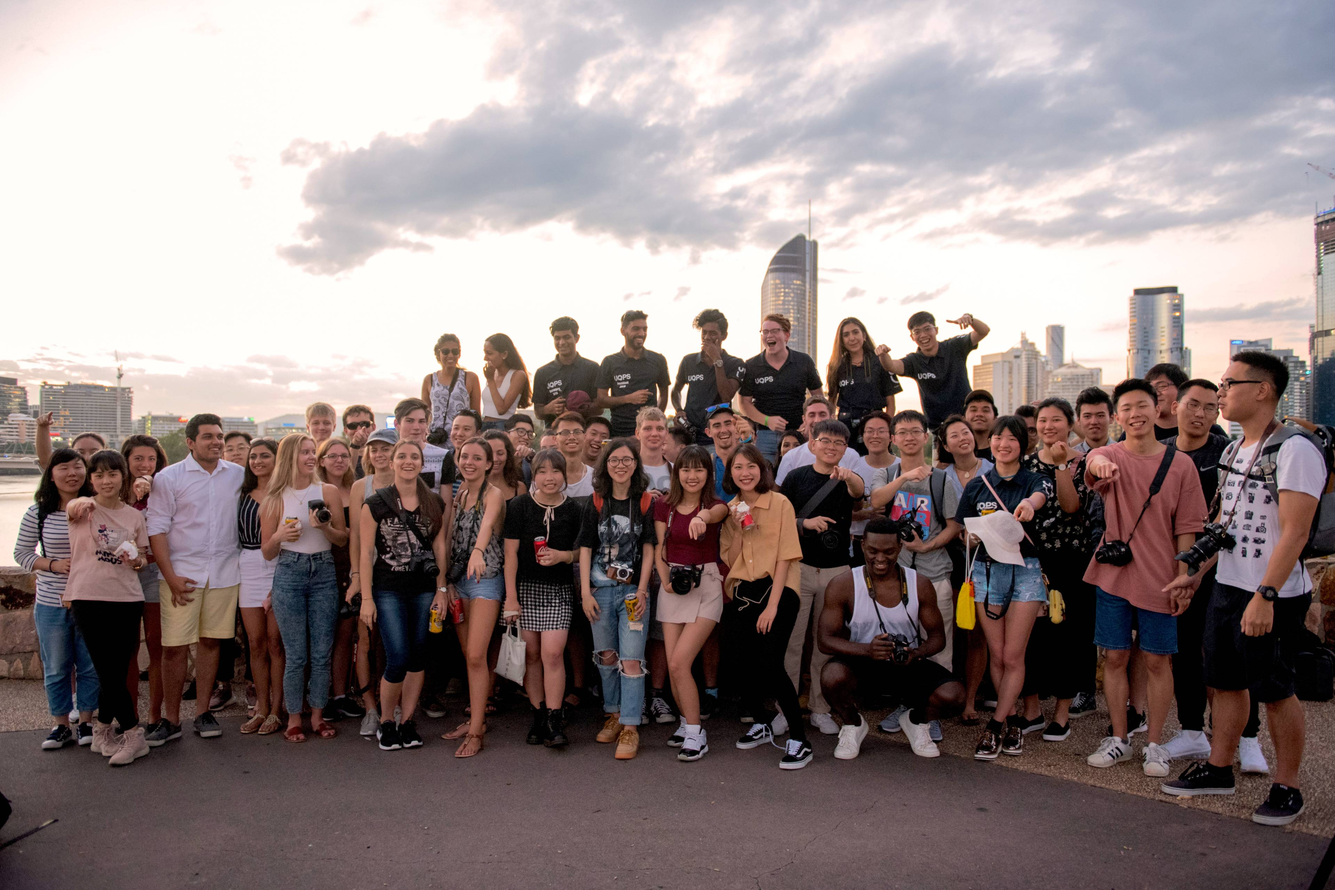
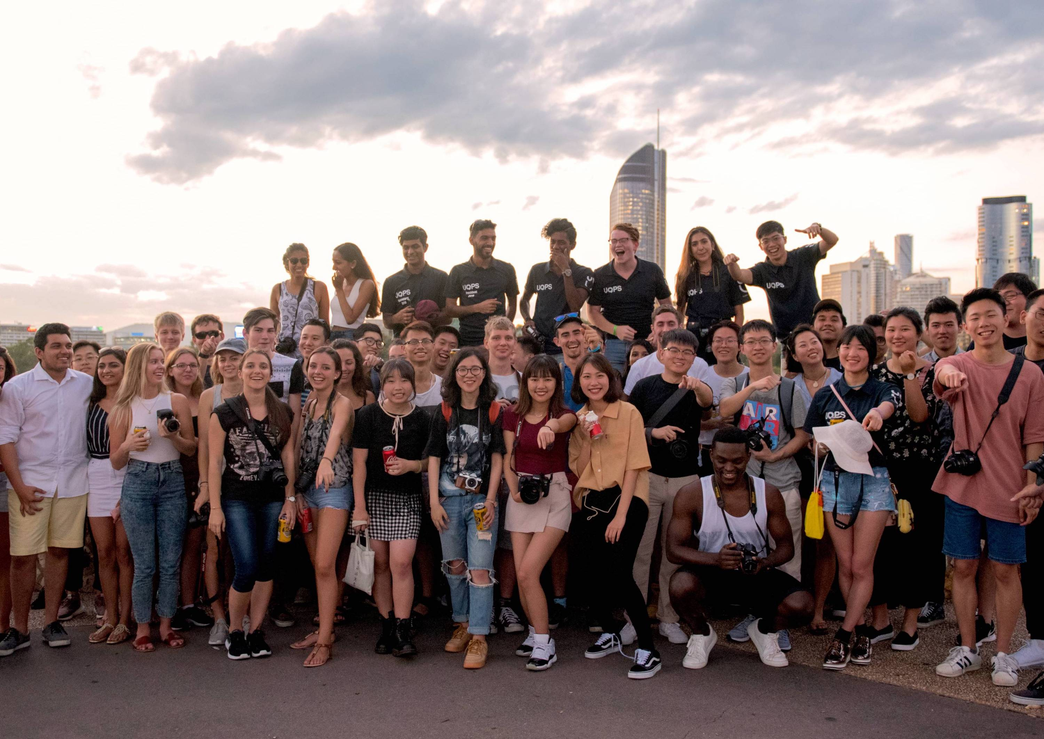
Restyle

diff --git a/static/index.html b/static/index.html
@@ -25,7 +25,7 @@
                 header.querySelector('.logo').style.filter = 'invert(1)';
             }
         }
-        // window.addEventListener('scroll', onScroll);
+        window.addEventListener('scroll', onScroll);
 
 
     </script>
@@ -47,7 +47,7 @@
                 </a>
             </div>
             <div class='links right'>
-                <a href='/'>
+                <a href='/#'>
                     <h3>Home</h3>
                 </a>
                 <a href='/#about'>
@@ -70,8 +70,9 @@
 
     <div class='hero-section'>
         <div class='container hero-container'>
-            <h1>We are <b>#UQPS</b></h1>
+            <h1>WE ARE <b>#UQPS</b></h1>
             <h2>The University of Queensland's Photography Society</h2>
+            <img class='welcome-img' src='/assets/welcome-large.jpg' />
             <div class='buttons'>
                 <a class='button' href='https://uqpsmember.getqpay.com/'>Become a Member</a>
                 <a class='button inverted' href='https://www.facebook.com/UQPSPhotoSociety'>Facebook Page</a>
@@ -81,7 +82,7 @@
 
     <div id='about' class='content-section about-section'>
         <div class='container'>
-            <img class='about-img' src="/assets/rudy.jpg" />
+            <img class='about-img' src="/assets/club-image.jpg" />
             <div class='right'>
                 <h2>We Focus on <i>All Things Photography</i></h2>
 
@@ -89,16 +90,16 @@
                     the semester for our members to take part in. </p>
                 <p>UQPS is part of the UQ Union, the largest student union in Australia.</p>
             </div>
-        </div>
-        <div id='upcoming-events' class='container events-container'>
-            <h2>Upcoming Events</h2>
-            <p>There are no upcoming events for now. Follow our Facebook page to be alerted about new events!</p>
-            <!-- <div class='right'>
-                <iframe
-                    src="https://www.facebook.com/plugins/page.php?href=https%3A%2F%2Fwww.facebook.com%2FUQPSPhotoSociety%2F&amp;tabs=events&amp;width=500&amp;height=700&amp;small_header=false&amp;adapt_container_width=true&amp;hide_cover=false&amp;show_facepile=true&amp;appId"
-                    width="500" height="700" style="border:none;overflow:hidden" scrolling="no" frameborder="0"
-                    allowtransparency="true" allow="encrypted-media"></iframe>
-            </div> -->
+            <div id='upcoming-events' class='events-container'>
+                <h2>Upcoming Events</h2>
+                <p>There are no upcoming events for now. Follow our Facebook page to be alerted about new events!</p>
+                <!-- <div class='right'>
+                    <iframe
+                        src="https://www.facebook.com/plugins/page.php?href=https%3A%2F%2Fwww.facebook.com%2FUQPSPhotoSociety%2F&amp;tabs=events&amp;width=500&amp;height=700&amp;small_header=false&amp;adapt_container_width=true&amp;hide_cover=false&amp;show_facepile=true&amp;appId"
+                        width="500" height="700" style="border:none;overflow:hidden" scrolling="no" frameborder="0"
+                        allowtransparency="true" allow="encrypted-media"></iframe>
+                </div> -->
+            </div>
         </div>
     </div>
     <div class='content-section exec-section'>
@@ -208,6 +209,9 @@
                     </a>
                     <a href='https://www.instagram.com/uqpsphotosociety/'>
                         <p>Instagram</p>
+                    </a>
+                    <a href='https://www.uqu.com.au/club/uq-photography-society'>
+                        <p>UQU</p>
                     </a>
                 </div>
             </div>

diff --git a/static/styles/home.css b/static/styles/home.css
@@ -1,3 +1,4 @@
+/* Hero Section */
 .hero-section {
   width: 100vw;
   height: 100vh;
@@ -5,11 +6,27 @@
   flex-direction: column;
   justify-content: center;
   align-items: center;
-  /* background-color: #111111; */
+  min-height: 20vh;
+  display: flex;
+  justify-content: center;
+  background-color: #111111;
+  background-color: white;
   /* background: linear-gradient(rgba(0, 0, 0, 0.3), rgba(0, 0, 0, 0.3)),
     url('https://assets.website-files.com/57371fe8807049795e624240/5737202eeea54c982f2afb84_Mountain.jpg'); */
-  background: linear-gradient(rgba(0, 0, 0, 0.3), rgba(0, 0, 0, 0.3)),
-    url('/assets/welcome-large.jpg');
+  /* background: linear-gradient(rgba(0, 0, 0, 0), rgba(0, 0, 0, 0.3)),
+    url('/assets/welcome-large.jpg'); */
+  background: #de6262; /* fallback for old browsers */
+  background: -webkit-linear-gradient(
+    to right,
+    #ffb88c,
+    #de6262
+  ); /* Chrome 10-25, Safari 5.1-6 */
+  background: linear-gradient(
+    to right,
+    #ffb88c,
+    #de6262
+  ); /* W3C, IE 10+/ Edge, Firefox 16+, Chrome 26+, Opera 12+, Safari 7+ */
+
   background-position: center;
   background-size: cover;
 }
@@ -19,18 +36,24 @@
   flex-direction: column;
   align-items: center;
   color: white;
-  margin-top: -41em;
+  margin-top: 4em;
 }
 
 .hero-section h1 {
   font-size: 2.6em;
-  font-weight: 500;
+  font-weight: 300;
 }
 
 .hero-section .buttons {
   margin-top: 2em;
+  margin-bottom: 3em;
   display: flex;
   flex-direction: row;
+}
+
+.hero-section .welcome-img {
+  margin-top: 2em;
+  width: 80%;
 }
 
 /* About section */
@@ -39,10 +62,13 @@
   width: 400px;
   margin-right: 3em;
 }
+.about-section {
+  padding-top: 9em;
+}
 
 .about-section .right {
-  margin-top: 4em;
-  max-width: 450px;
+  margin-top: 1em;
+  max-width: 420px;
 }
 
 .about-section h2 {
@@ -51,12 +77,14 @@
 
 /* Exec Section */
 .exec-section {
-  background-color: black;
-  color: white;
+  /* background-color: black;
+  color: white; */
+  color: black;
 }
 
 .exec-section h2 {
   margin-bottom: 1em;
+  font-weight: 400;
 }
 
 .exec-container {
@@ -90,6 +118,7 @@
 .exec-name {
   font-weight: 200;
   font-size: 1.1em;
+  color: black;
 }
 
 .exec-role {
@@ -97,10 +126,10 @@
   font-weight: 200;
   font-size: 0.7em;
   opacity: 0.7;
+  color: black;
 }
 
 /* Events Section */
 .events-container {
-  flex-direction: column;
   margin-top: 4em;
 }

diff --git a/static/styles/common.css b/static/styles/common.css
@@ -55,8 +55,8 @@ p {
 
 hr {
   width: 100%;
-  border: 0.5px solid white;
-  opacity: 0.087;
+  border: 0.5px solid black;
+  opacity: 0.047;
   margin: 1em 0;
 }
 
@@ -66,6 +66,8 @@ hr {
   flex-wrap: wrap;
   box-sizing: border-box;
   max-width: 940px;
+  margin-left: 2em;
+  margin-right: 2em;
 }
 
 /* Header */
@@ -73,7 +75,7 @@ header {
   position: fixed;
   top: 0;
   width: 100vw;
-  padding: 1.5em 2em 1em 2em;
+  padding: 1.5em 0em;
   color: white;
   display: flex;
   flex-direction: row;
@@ -82,7 +84,7 @@ header {
 }
 
 header .logo {
-  width: 90px;
+  width: 70px;
   filter: invert(1);
   transition: transform 0.2s;
 }
@@ -127,13 +129,6 @@ header h3:hover {
   font-weight: 500;
 }
 
-/* Hero Section */
-.hero-section {
-  min-height: 20vh;
-  display: flex;
-  justify-content: center;
-}
-
 /* Section */
 .content-section {
   min-height: 20vh;
@@ -141,8 +136,8 @@ header h3:hover {
   flex-direction: column;
   align-items: center;
   justify-content: center;
-  padding-top: 8em;
-  padding-bottom: 8em;
+  padding-top: 4em;
+  padding-bottom: 4em;
 }
 
 /* Footer Section */

diff --git a/static/styles/mobile.css b/static/styles/mobile.css
@@ -4,12 +4,13 @@
   }
 
   .container {
+    width: auto;
     margin-left: 1em;
     margin-right: 1em;
   }
 
   .content-section {
-    padding-top: 2em;
+    padding-top: 3em;
     padding-bottom: 2em;
   }
 
@@ -23,19 +24,19 @@
 
   .hero-section h2 {
     max-width: 70vw;
+    text-align: center;
   }
 
   .hero-container {
-    margin-top: -30em !important;
-    align-items: flex-start !important;
+    margin-top: 0em !important;
+  }
+
+  .about-section {
+    padding-top: 3em !important;
   }
 
   .about-section .about-img {
     margin-right: 1em !important;
-  }
-
-  .about-section .right {
-    margin-top: 1em !important;
   }
 
   .events-container {
